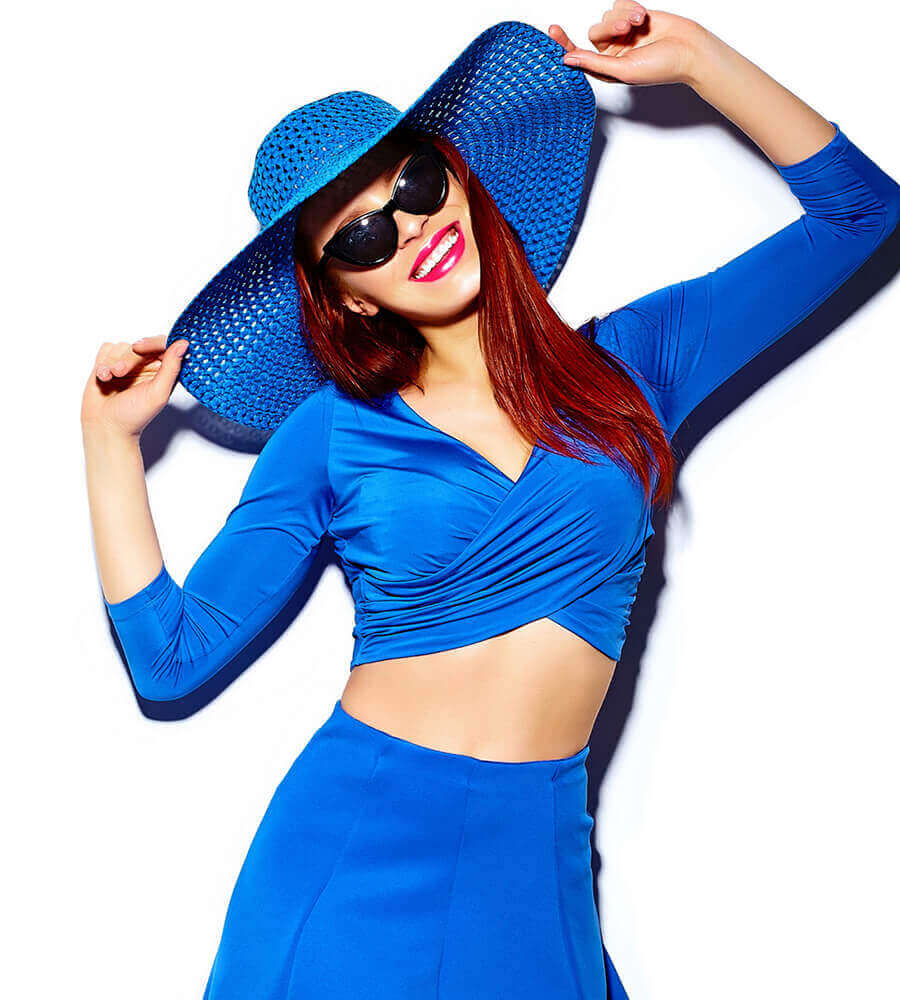
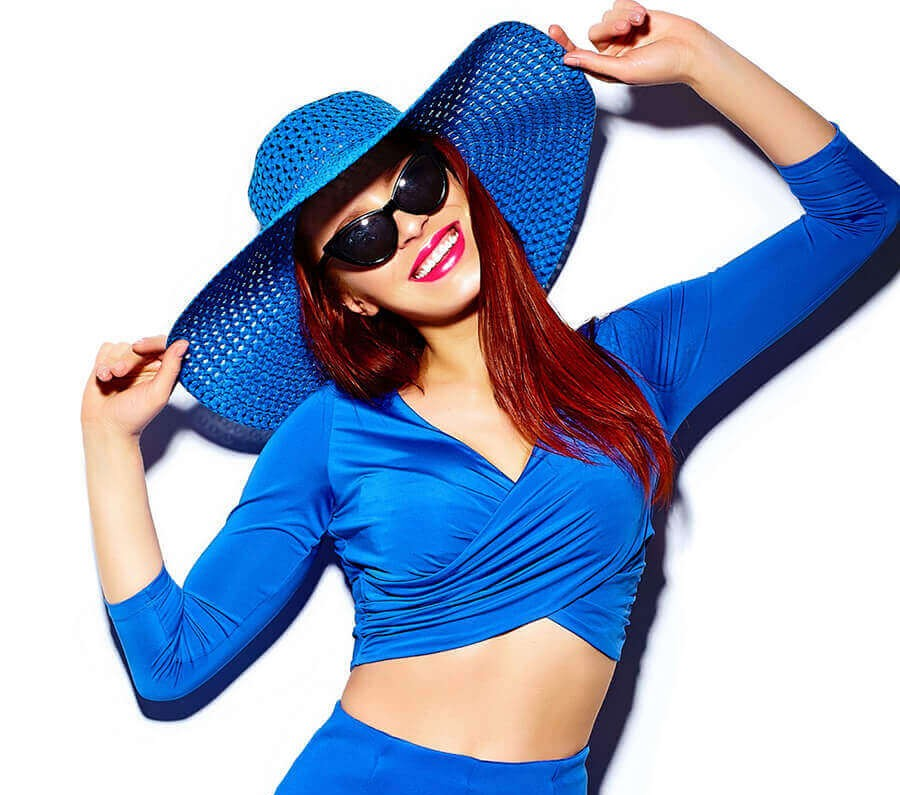
9y57

diff --git a/src/pages/NewArrivals/NewArrivals.jsx b/src/pages/NewArrivals/NewArrivals.jsx
@@ -66,16 +66,16 @@ const NewArrivals = () => {
               <img src={p.image} alt={p.name} />
               {p.showButton && <button className="view-button">View Details</button>}
             </div>
-            <p className="brand">{p.brand}</p>
-            <div className="colors">
+            <p className="brand" style={{fontSize:"20px"}}>{p.brand}</p>
+            <div className="colors" style={{fontSize:"18px"}}>
               {p.colors.map((c, i) => (
-                <span key={i} className="color-dot" style={{ backgroundColor: c }}></span>
+                <span key={i} className="color-dot" style={{ backgroundColor: c ,fontSize:"18px"}}  ></span>
               ))}
             </div>
-            <h3 className="name">{p.name}</h3>
-            <p className="price">
+            <h3 className="name" style={{fontSize:"20px"}}>{p.name}</h3>
+            <p className="price" style={{fontSize:"20px"}}>
               ${p.price.toFixed(2)}
-              {p.originalPrice && <span className="original">${p.originalPrice.toFixed(2)}</span>}
+              {p.originalPrice && <span className="original" style={{fontSize:"20px"}}>${p.originalPrice.toFixed(2)}</span>}
             </p>
           </div>
         ))}

diff --git a/src/pages/BestSellerSection/BestSellerSection.css b/src/pages/BestSellerSection/BestSellerSection.css
@@ -28,14 +28,23 @@
 }
 
 .image-wrapper {
-  position: relative;
+  height: 200px; /* Control the visible image height */
+  overflow: hidden; /* Hide any overflow if the image is taller */
 }
 
 .image-wrapper img {
   width: 100%;
-  height: auto;
+  height: 100%;
+  object-fit: contain; /* Crop image to fit the wrapper without distortion */
   display: block;
 }
+
+@media (max-width: 600px) {
+  .image-wrapper img {
+    height: 150px;
+  }
+}
+
 
 .sale-badge {
   position: absolute;

diff --git a/src/components/ShopPage/ShopPage.css b/src/components/ShopPage/ShopPage.css
@@ -7,6 +7,19 @@ body {
   font-family: 'Segoe UI', Tahoma, Geneva, Verdana, sans-serif;
   background-color: #f4f4f4;
 }
+.image-container {
+  width: 100%;
+  height: 200px; /* Reduce from 200px to something smaller */
+  overflow: hidden;
+  background-color: #f0f0f0;
+}
+
+.image-container img {
+  width: 100%;
+  height: 100%;
+  object-fit: cover;
+  transition: transform 0.3s;
+}
 
 .shop-page {
   padding: 40px 20px;

diff --git a/src/pages/NewArrivals/NewArrivals.css b/src/pages/NewArrivals/NewArrivals.css
@@ -70,7 +70,7 @@
 }
 
 .brand {
-  font-size: 0.9rem;
+  font-size: 0.5rem;
   color: #777;
   margin: 10px 0 4px;
 }
@@ -89,13 +89,13 @@
 }
 
 .name {
-  font-size: 1.1rem;
+  font-size: 0.9rem;
   font-weight: bold;
   margin: 5px 0;
 }
 
 .price {
-  font-size: 1rem;
+  font-size: 0.8rem;
   color: #000;
 }
 
